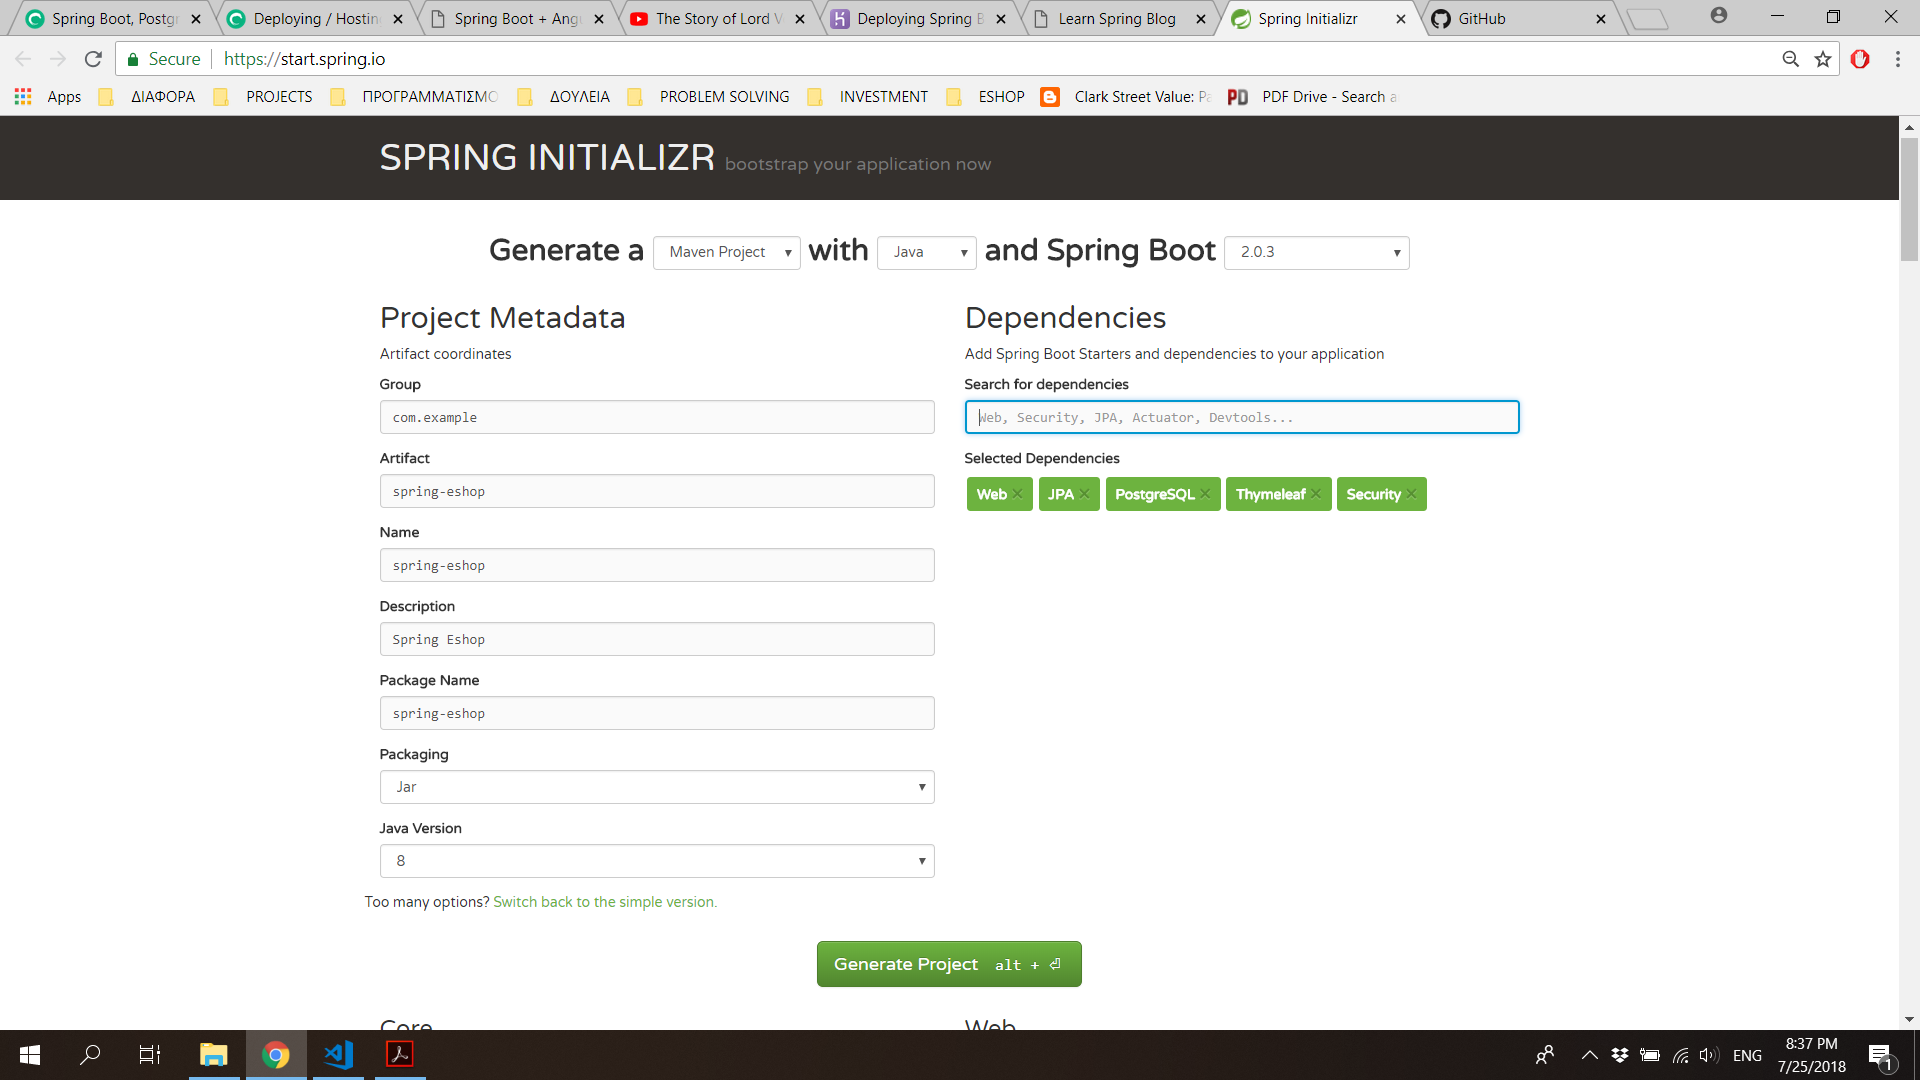
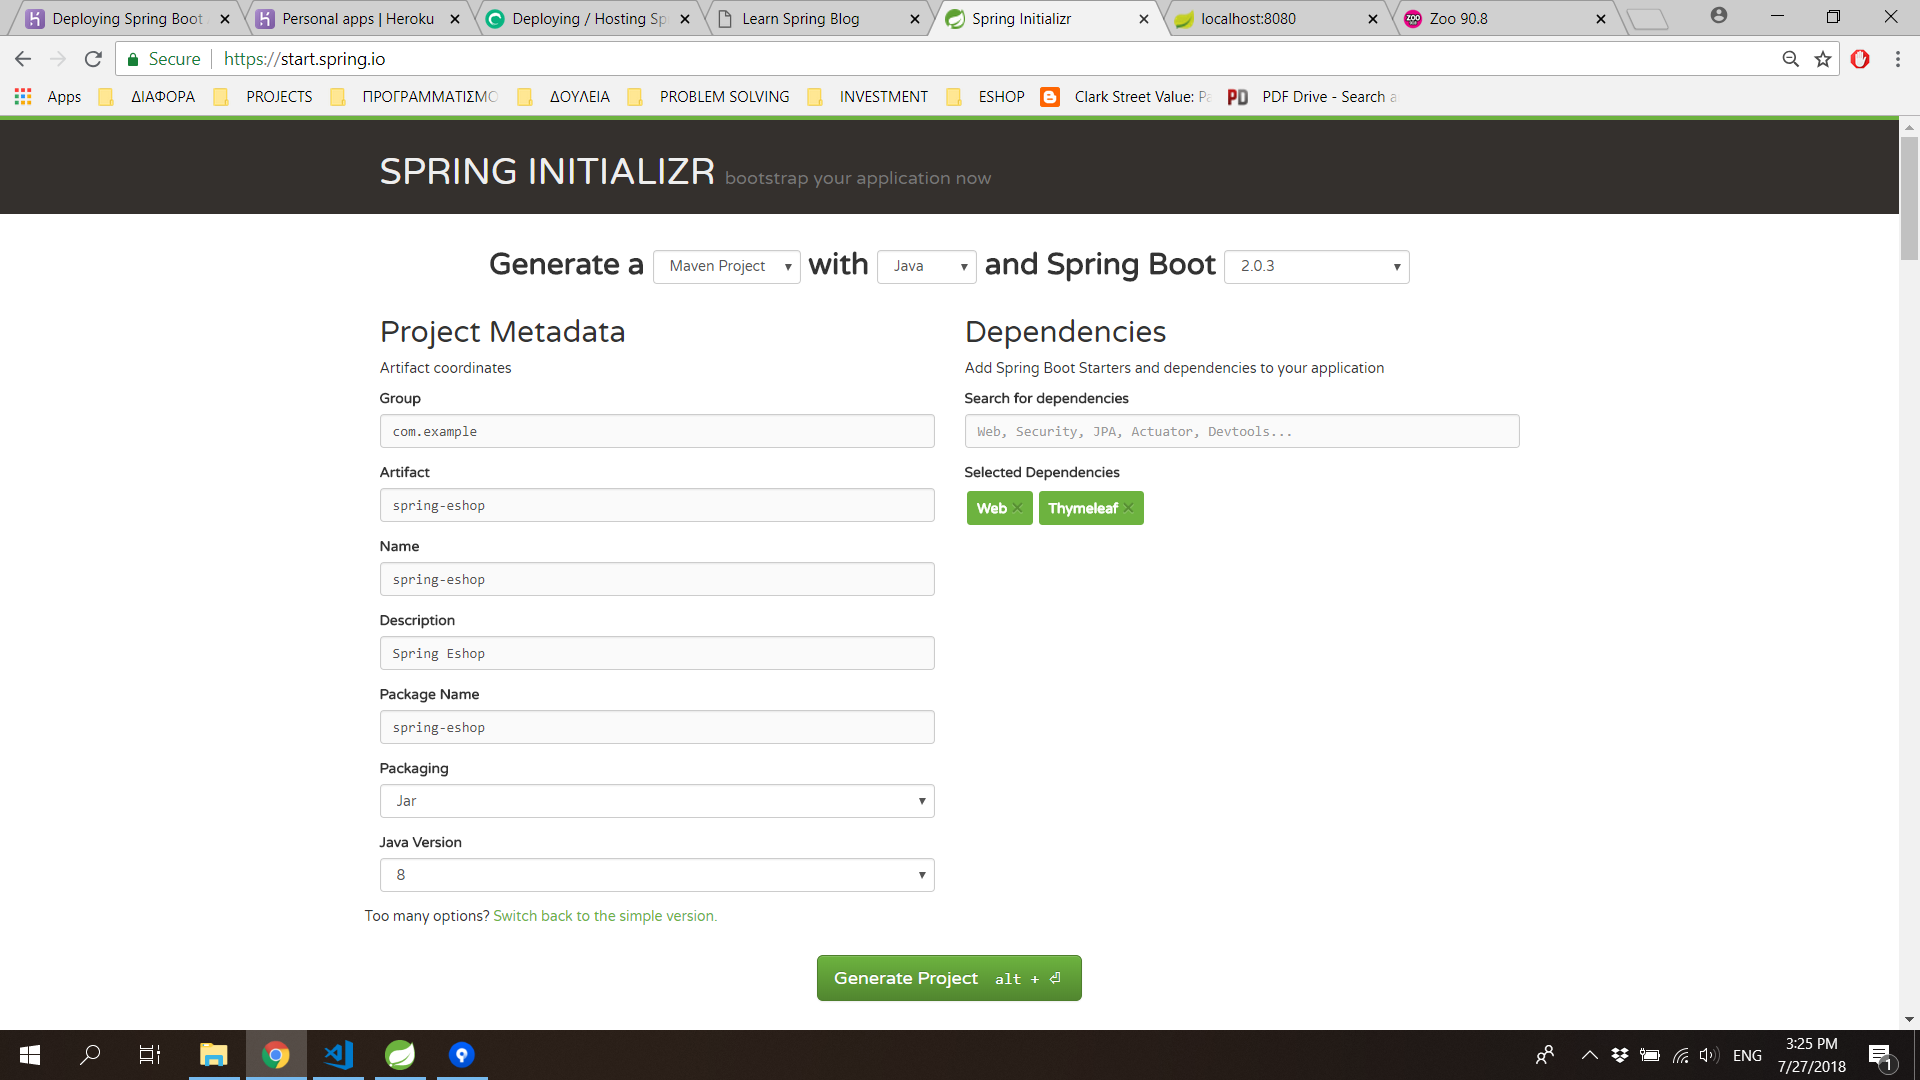
step 2 continued

diff --git a/html/step2.html b/html/step2.html
@@ -109,11 +109,67 @@
                     <strong>Name</strong> : spring-eshop<br>
                     <strong>Description</strong> : Spring Eshop<br>
                     <strong>Package Name</strong> : spring-eshop<br>
-                    <strong>Dependencies</strong> : Web, JPA, PostgreSQL, Thymeleaf, Security<br>
+                    <strong>Dependencies</strong> : Web, , Thymeleaf<br>
+
+                    <p>Πατάμε το κουμπί Generate Project και κατεβάζουμε το Project σε μορφή zip.</p>
 
                     <img class="img_fluid mx-auto mt-3 w-100" src="../img/spring_initializr.png" alt="Spring Initializr">  
                     
                 </li>
+            </ol>
+
+            <h5 class="mt-4">Δημιουργία τοπικού Git Repository</h5>
+
+            <ol>
+                <li>Πρέπει να κάνουμε clone το remote repository τοπικά. Στο παράδειγμα αυτό θα χρησιμοποιήσουμε το Source Tree, το 
+                    οποίο είναι ένα git client για τα Windows. Μπορείτε να το κατεβάσετε <a href="https://www.sourcetreeapp.com/">εδώ</a>.
+                </li>
+                <li>Κάνουμε κλικ στη καρτέλα Remote πάνω αριστερά. Επιλέγουμε το repository SpringEshop και πατάμε Clone.
+                    <img class="img_fluid mx-auto mt-3 w-100" src="../img/clone_repo1.png" alt="Clone Repo 1">
+                </li>
+                <li>
+                    Επιλέγουμε να το κάνουμε clone στο φάκελο workspace του Spring Tool Suite. Σε αυτό τον υπολογιστή ο φάκελος είναι
+                    C:\Users\Kostas\Documents\workspace-sts-3.8.4.RELEASE. Βάζουμε στο path το SpringEshop και πατάμε Clone.
+                    <img class="img_fluid mx-auto mt-3 w-100" src="../img/clone_repo2.png" alt="Clone Repo 2">
+                </li>
+            </ol>
+
+            <h5 class="mt-4">Import του project στο Spring Tool Suite</h5>
+
+            <ol>
+                <li>Ανοίγουμε το Spring Tool Suite. Πατάμε File ->  Import</li>
+                <li>Επιλέγουμε το φάκελο Maven -> Existing Maven Projects</li>
+                <li>Πατάμε Browse, επιλέγουμε το φάκελο, στον οποίο κάναμε Clone το Repository και πατάμε Finish.</li>
+                <li>Αν όλα είναι σωστά, θα πρέπει, να υπάρχει ένα project SpringEshop με το ακόλουθο Structure στο Package Explorer
+                    <img class="img_fluid mx-auto mt-3 w-100" src="../img/project_structure.png" alt="Project Structure">
+                </li>
+                <li>Τώρα θα προσθέσουμε κώδικα, ώστε να εμφανίζεται στο browser το μήνυμα "Hello World". Ανοίγουμε το SpringEshopApplication.java
+                    , που είναι στο φάκελο src/main/java -> springeshop και προσθέτουμε αρχικά το annotaion @Controller πάνω από το  SpringEshopApplication.
+                    Έπειτα προσθέτουμε την άκολουθο μέθοδο στην κλάση.<br>
+                    <pre>
+                            <code>
+                                    @RequestMapping("/")
+                                    @ResponseBody
+                                    String home() {
+                                      return "Hello World!";
+                                    }
+                            </code>
+                    </pre>
+                    Μπορείτε να τρέξετε την εφαρμογή τοπικά, κάνοντας δεξί κλικ στο project -> Run As -> Spring Boot App και ανοίγοντας στο browser 
+                    το url <a href="http://localhost:8080/">http://localhost:8080/</a>.     
+                </li>
+                <li>
+                    Θα κάνουμε push τις αλλαγές στο remote git repository. Ανοίγουμε το SourceTree, επιλέγουμε το SpringEshop από την καρτέλα Local.
+                    Πατάμε Stage All , επιλέγουμε το όνομα του commit, που επιθυμούμε και πατάμε Commit. Μετά πατάμε Push, κάνουμε κλικ στο Local branch
+                    master και πατάμε το κουμπί Push.
+                </li>
+            </ol>
+
+            <h5 class="mt-4">Deploy της εφαμογής στο Heroku</h5>
+
+            <ol>
+                <li>Αρχικά, πρέπει να δημιουργήσετε <a href="https://signup.heroku.com/">free account στο Heroku</a>.</li>
+                <li>Μετά, πρέπει να <a href="https://devcenter.heroku.com/articles/heroku-cli">κατεβάσετε και να εγκαταστήσετε το Heroku Cli</a>.</li>
             </ol>
         </section>
     </div>

diff --git a/css/index.css b/css/index.css
@@ -22,6 +22,11 @@ h5{
     text-transform: uppercase;
 }
 
+pre {
+    text-align: left;
+    white-space: pre-line;
+  }
+
 @media (min-width: 768px) {
     body {
       padding-top: 54px;
